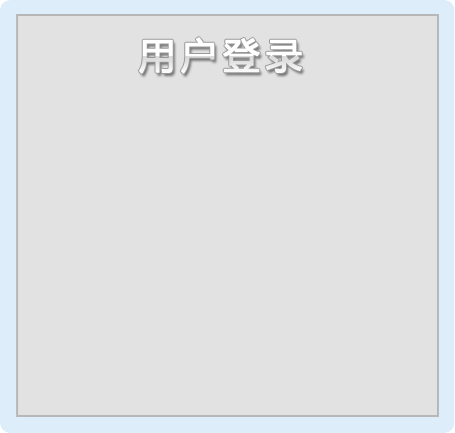
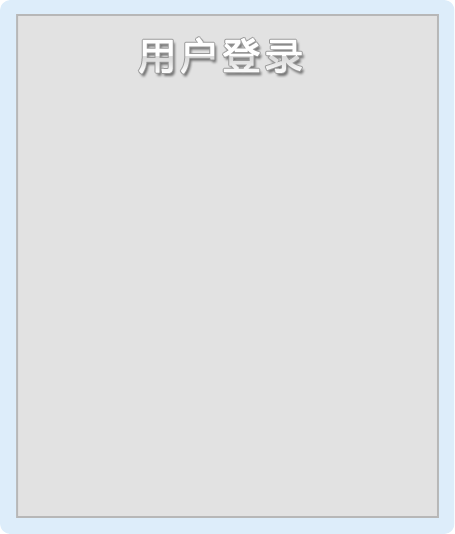
update

Changed region(s): [[0.0308, 0.0, 0.9538, 0.1801], [0.0308, 0.9607, 0.9538, 0.9908]]

diff --git a/src/main/webapp/extend/css/login.css b/src/main/webapp/extend/css/login.css
@@ -15,7 +15,7 @@ iframe{background: transparent;}
 .login_box{width:100%;height:100%;min-height:600px;}
 .login_con{position:absolute;top:0;left:50%;margin-left:-500px;}
 .bg{width:100%;height:100%;}
-.login_box .login-layout{width:395px;height:380px;padding:110px 30px 0 30px;float:left;background:url(/extend/img/login.png) top center no-repeat;margin:150px  0 0 540px;}
+.login_box .login-layout{width:395px;height:561px;padding:110px 30px 0 30px;float:left;background:url(/extend/img/login.png) top center no-repeat;margin:150px  0 0 540px;}
 .login_box .login-layout dt{width:110px;padding:5px 0;padding-right:10px;height:40px;float:left;font-size:16px;line-height:40px;font-weight:bold;text-align:right;}
 .login_box .login-layout dd{width:250px;padding:5px 0;height:40px;float:left;font-size:0;}
 .login_box .login-layout dd .input_box{width:230px;background:#fff;border:1px solid #418bd9;height:38px;float:left;}
@@ -28,17 +28,16 @@ iframe{background: transparent;}
 .login_box .login-layout#login dd a.submit_btn{ cursor: pointer; width:242px;height:37px;display:block;background:url(/extend/img/login_btn.jpg) top center no-repeat;}
 
 .login_box .note{
-	position: absolute;
 	background-color: #033975;
-	opacity: 0.9;
-	/* padding-left: 30px; */
+	opacity: 0.8;
 	width: 400px;
 	height: 100px;
-	/* right: 500px; */
-	top: 590px;
-	left: 50%;
-	margin-left: 70px;
+	margin-top: 290px;
+	margin-left: -2px;
 	font-size: 16pt;
+	-moz-border-radius: 15px;      /* Gecko browsers */
+	-webkit-border-radius: 15px;   /* Webkit browsers */
+	border-radius:15px;            /* W3C syntax */
 }
 .login_box .note ul li{
 	list-style-type:none;
